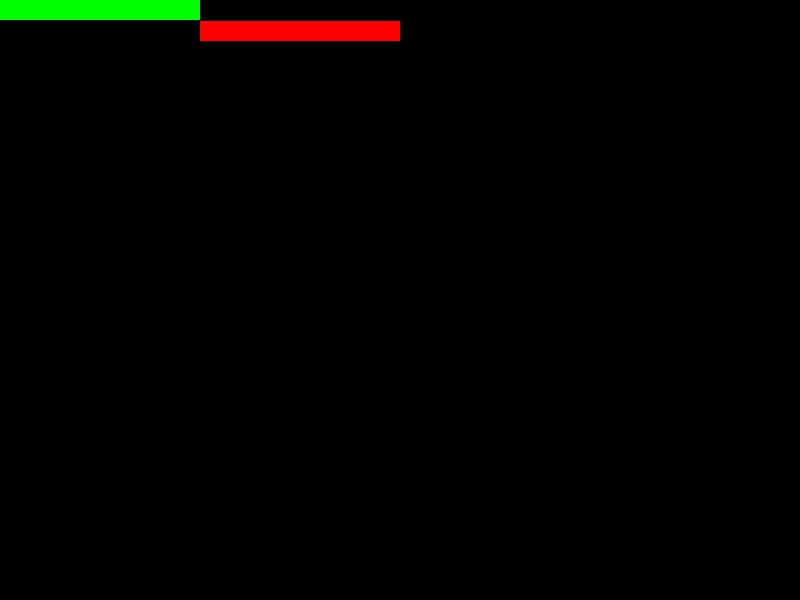
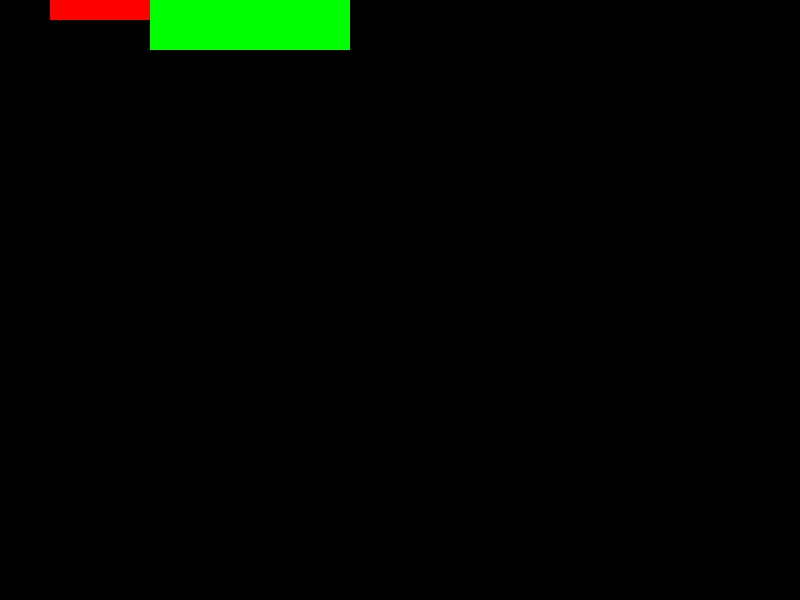
feat: tictactoe

Changed region(s): [[0.0, 0.0, 0.5, 0.09]]

diff --git a/week07/toybrowser/layout.js b/week07/toybrowser/layout.js
@@ -2,6 +2,8 @@ const { camelizeKeys } = require("humps");
 const {
   getAbstractProperties,
   defaultFlexValues,
+  ELEMENT_HEIGHT,
+  ELEMENT_WIDTH,
 } = require("./getAbstractProperties");
 const { nullishOperate } = require("./utils");
 
@@ -30,14 +32,15 @@ const layout = (element) => {
   let style = element.style;
   if (!element || element.type !== "element") return;
   if (!element.computedStyle) return;
-  if (element.style.display !== 'flex') return
+  if (element.style.display !== "flex") return;
   // 用来做 render 的实际值
-  let elementStyle = { ...element.style };
+  let elementStyle = { ...camelizeKeys(element.style) };
   // style.order 处理
   const items = [...element.children]
     .filter((e) => e.type === "element")
     .sort((a, b) => (a.order || 0) - (b.order || 0));
   // 给默认值
+  style = camelizeKeys(style);
   style = Object.keys(style).reduce((prev, k) => {
     // width 和 height auto 值处理
     if (["width", "height"].includes(k) && ["auto", ""].includes(style[k])) {
@@ -53,7 +56,7 @@ const layout = (element) => {
   const abstractProperties = getAbstractProperties(style);
 
   elementStyle = { ...elementStyle, ...abstractProperties };
-  const {
+  let {
     mainSize,
     mainStart,
     mainEnd,
@@ -78,22 +81,29 @@ const layout = (element) => {
     );
     isAutoMainSize = true;
   }
+  // 补上之前不定的 mainBase 值
+  if ([ELEMENT_HEIGHT, ELEMENT_WIDTH].includes(mainBase)) {
+    mainBase = elementStyle[mainSize];
+    elementStyle[mainBase] = mainBase;
+    abstractProperties[mainBase] = mainBase;
+  }
   const flexLine = [];
   const flexLines = [flexLine];
-  let mainSpace = elementStyle[mainSize];
+  flexLine.mainSpace = elementStyle[mainSize];
   let crossSpace = 0;
   items.forEach((item) => {
     getStyle(item);
     // 子元素的实际样式
     const itemStyle = { ...item.style };
     item.itemStyle = itemStyle;
+    // 补上之前不定的 mainBase 值
     if (itemStyle.flex) {
       // 带 flex 属性的元素随便伸缩
       flexLine.push(item);
       // question1
     } else if (isAutoMainSize || elementStyle.flexWrap === "nowrap") {
       // 一定不会换行
-      mainSpace -= item.itemStyle[mainSize];
+      flexLine.mainSpace -= item.itemStyle[mainSize];
       flexLine.push(item);
     } else {
       // 无论如何，item 的 mainSize 不会超过 element 的
@@ -102,18 +112,18 @@ const layout = (element) => {
         elementStyle[mainSize]
       );
       // 正常换行的 flex 流，且容器内容均规定了 mainSize 值
-      if (mainSpace < itemStyle[mainSize]) {
+      if (flexLine.mainSpace < itemStyle[mainSize]) {
         // 当前剩余 mainSpace 不足以放当前 item，结算当前 flexLine 信息并换行
         flexLine.crossSpace = crossSpace;
         flexLine = [item];
         flexLines.push(flexLine);
-        mainSpace = computedStyle[mainSize];
+        flexLine.mainSpace = computedStyle[mainSize];
         crossSpace = 0;
       } else {
         // 当前行足够放
         flexLine.push(item);
       }
-      mainSpace -= itemStyle[mainSize];
+      flexLine.mainSpace -= itemStyle[mainSize];
     }
     // question5
     crossSpace = Math.max(
@@ -122,15 +132,12 @@ const layout = (element) => {
     );
   });
   // 处理可能存在的没有排完的最后一行
-  flexLine.mainSpace = mainSpace;
-  // 这个只是内容决定的 crossSpace，并没有考虑剩余空间
-  flexLine.crossSpace = crossSpace;
   // question6
   if (!flexLines.includes(flexLine)) {
     flexLines.push(flexLine);
   }
   // 开始处理伸缩，空白问题
-  if (mainSpace < 0) {
+  if (flexLines[0].mainSpace < 0) {
     //压缩，只有单行可能出现这种情况
     const scale =
       elementStyle[mainSpace] / (elementStyle[mainSpace] - mainSpace);
@@ -148,6 +155,7 @@ const layout = (element) => {
   } else {
     // 有剩余空间
     flexLines.forEach((flexLine) => {
+      const { mainSpace } = flexLine;
       const flexItemCount = flexLine.reduce(
         (prevCount, item) => (item.itemStyle.flex ? prevCount + 1 : prevCount),
         0
@@ -180,7 +188,7 @@ const layout = (element) => {
           step = 0;
         }
         if (justifyContent === "center") {
-          currentMain = mainSpace / 2 + mainBase;
+          currentMain = (mainSpace / 2) * mainSign + mainBase;
           step = 0;
         }
         if (justifyContent === "space-between") {
@@ -192,12 +200,11 @@ const layout = (element) => {
           step = (mainSpace / flexLine.length) * mainSign;
           currentMain = mainBase + step / 2;
         }
-
         flexLine.forEach((item) => {
           const { itemStyle } = item;
           // question7
           itemStyle[mainStart] = currentMain;
-          itemStyle[mainEnd] = currentMain + itemStyle[mainSize] * mainSize;
+          itemStyle[mainEnd] = currentMain + itemStyle[mainSize] * mainSign;
           currentMain = itemStyle[mainEnd] + step;
         });
       }

diff --git a/week07/toybrowser/getAbstractProperties.js b/week07/toybrowser/getAbstractProperties.js
@@ -55,7 +55,7 @@ const getAbstractProperties = (style) => {
   if (flexDirection === "row-reverse") {
     mainSize = "width";
     mainStart = "right";
-    mainEnd = "bottom";
+    mainEnd = "left";
     mainSign = -1;
     // question3
     mainBase = ELEMENT_WIDTH;
@@ -117,5 +117,6 @@ const getAbstractProperties = (style) => {
 module.exports = {
   getAbstractProperties,
   ELEMENT_WIDTH,
+  ELEMENT_HEIGHT,
   defaultFlexValues
 };

diff --git a/week07/toybrowser/parser.js b/week07/toybrowser/parser.js
@@ -9,21 +9,18 @@ div {
   justify-content: center;
   height: 200px;
   width: 400px;
+  flex-direction: row-reverse;
 }
 
 div .span1 {
   width: 200px;
+  height: 50px;
+  background-color: rgb(0,255,0);
 }    
 div .span2 { 
     width:100px;
     background-color: rgb(255,0,0);
-    flex: 1;
     height: 20px;
-}
-div span {
-    background-color: rgb(0,255,0);
-    width: 40px
-    height: 30px;
 }
     </style>
 </head>

diff --git a/week09/index.html b/week09/index.html
@@ -1,0 +1,4 @@
+<ruby>
+    可<rt>ke</rt>
+    怕<rt>pa</rt>
+</ruby>

diff --git a/week09/DOM.md b/week09/DOM.md
@@ -1,0 +1,34 @@
+Node API
+
+r
+
+* parentNode
+* childNodes
+* firstChild
+* lastChild
+* nextSibling
+* previousSibling
+
+w
+
+* parentNdoe
+* insertBefore
+* removeChild
+* replaceChild
+
+一个 DOM 只能插入一次，二次插入时第一次插入会被覆盖
+
+childNodes 是一个 living collection，会时时变化
+
+compareDocumentPosition
+
+isEqualNode
+
+isSameNode
+
+![image-20200606213935787](/Users/zhangdongming/Library/Application Support/typora-user-images/image-20200606213935787.png)
+
+addEventListener
+
+
+

diff --git a/week09/NOTE.md b/week09/NOTE.md
@@ -1,1 +1,16 @@
-# 每周总结可以写在这里
+# HTML
+quot
+amp
+lt
+gt
+
+2.1 2.2 counters https://developer.mozilla.org/zh-CN/docs/Web/Guide/CSS/Counters
+
+
+## Nodes
+* Element
+* Text
+* Comment <!-- comments -->
+* DocumntType: <Doctype html>
+* ProcesingInstruction: <?a 1?>
+* CDATA:<![CDATA[]]>

diff --git a/week10/NOTE.md b/week10/NOTE.md
@@ -1,1 +1,4 @@
 # 每周总结可以写在这里
+TicTacToe 代码链接：https://codesandbox.io/s/geekfe-chess-4y4wb?file=/src/App.js
+按照自己思路实现了一个 willwin（上课有过老师的这个思路😜）
+o 为用户，X 为 AI
